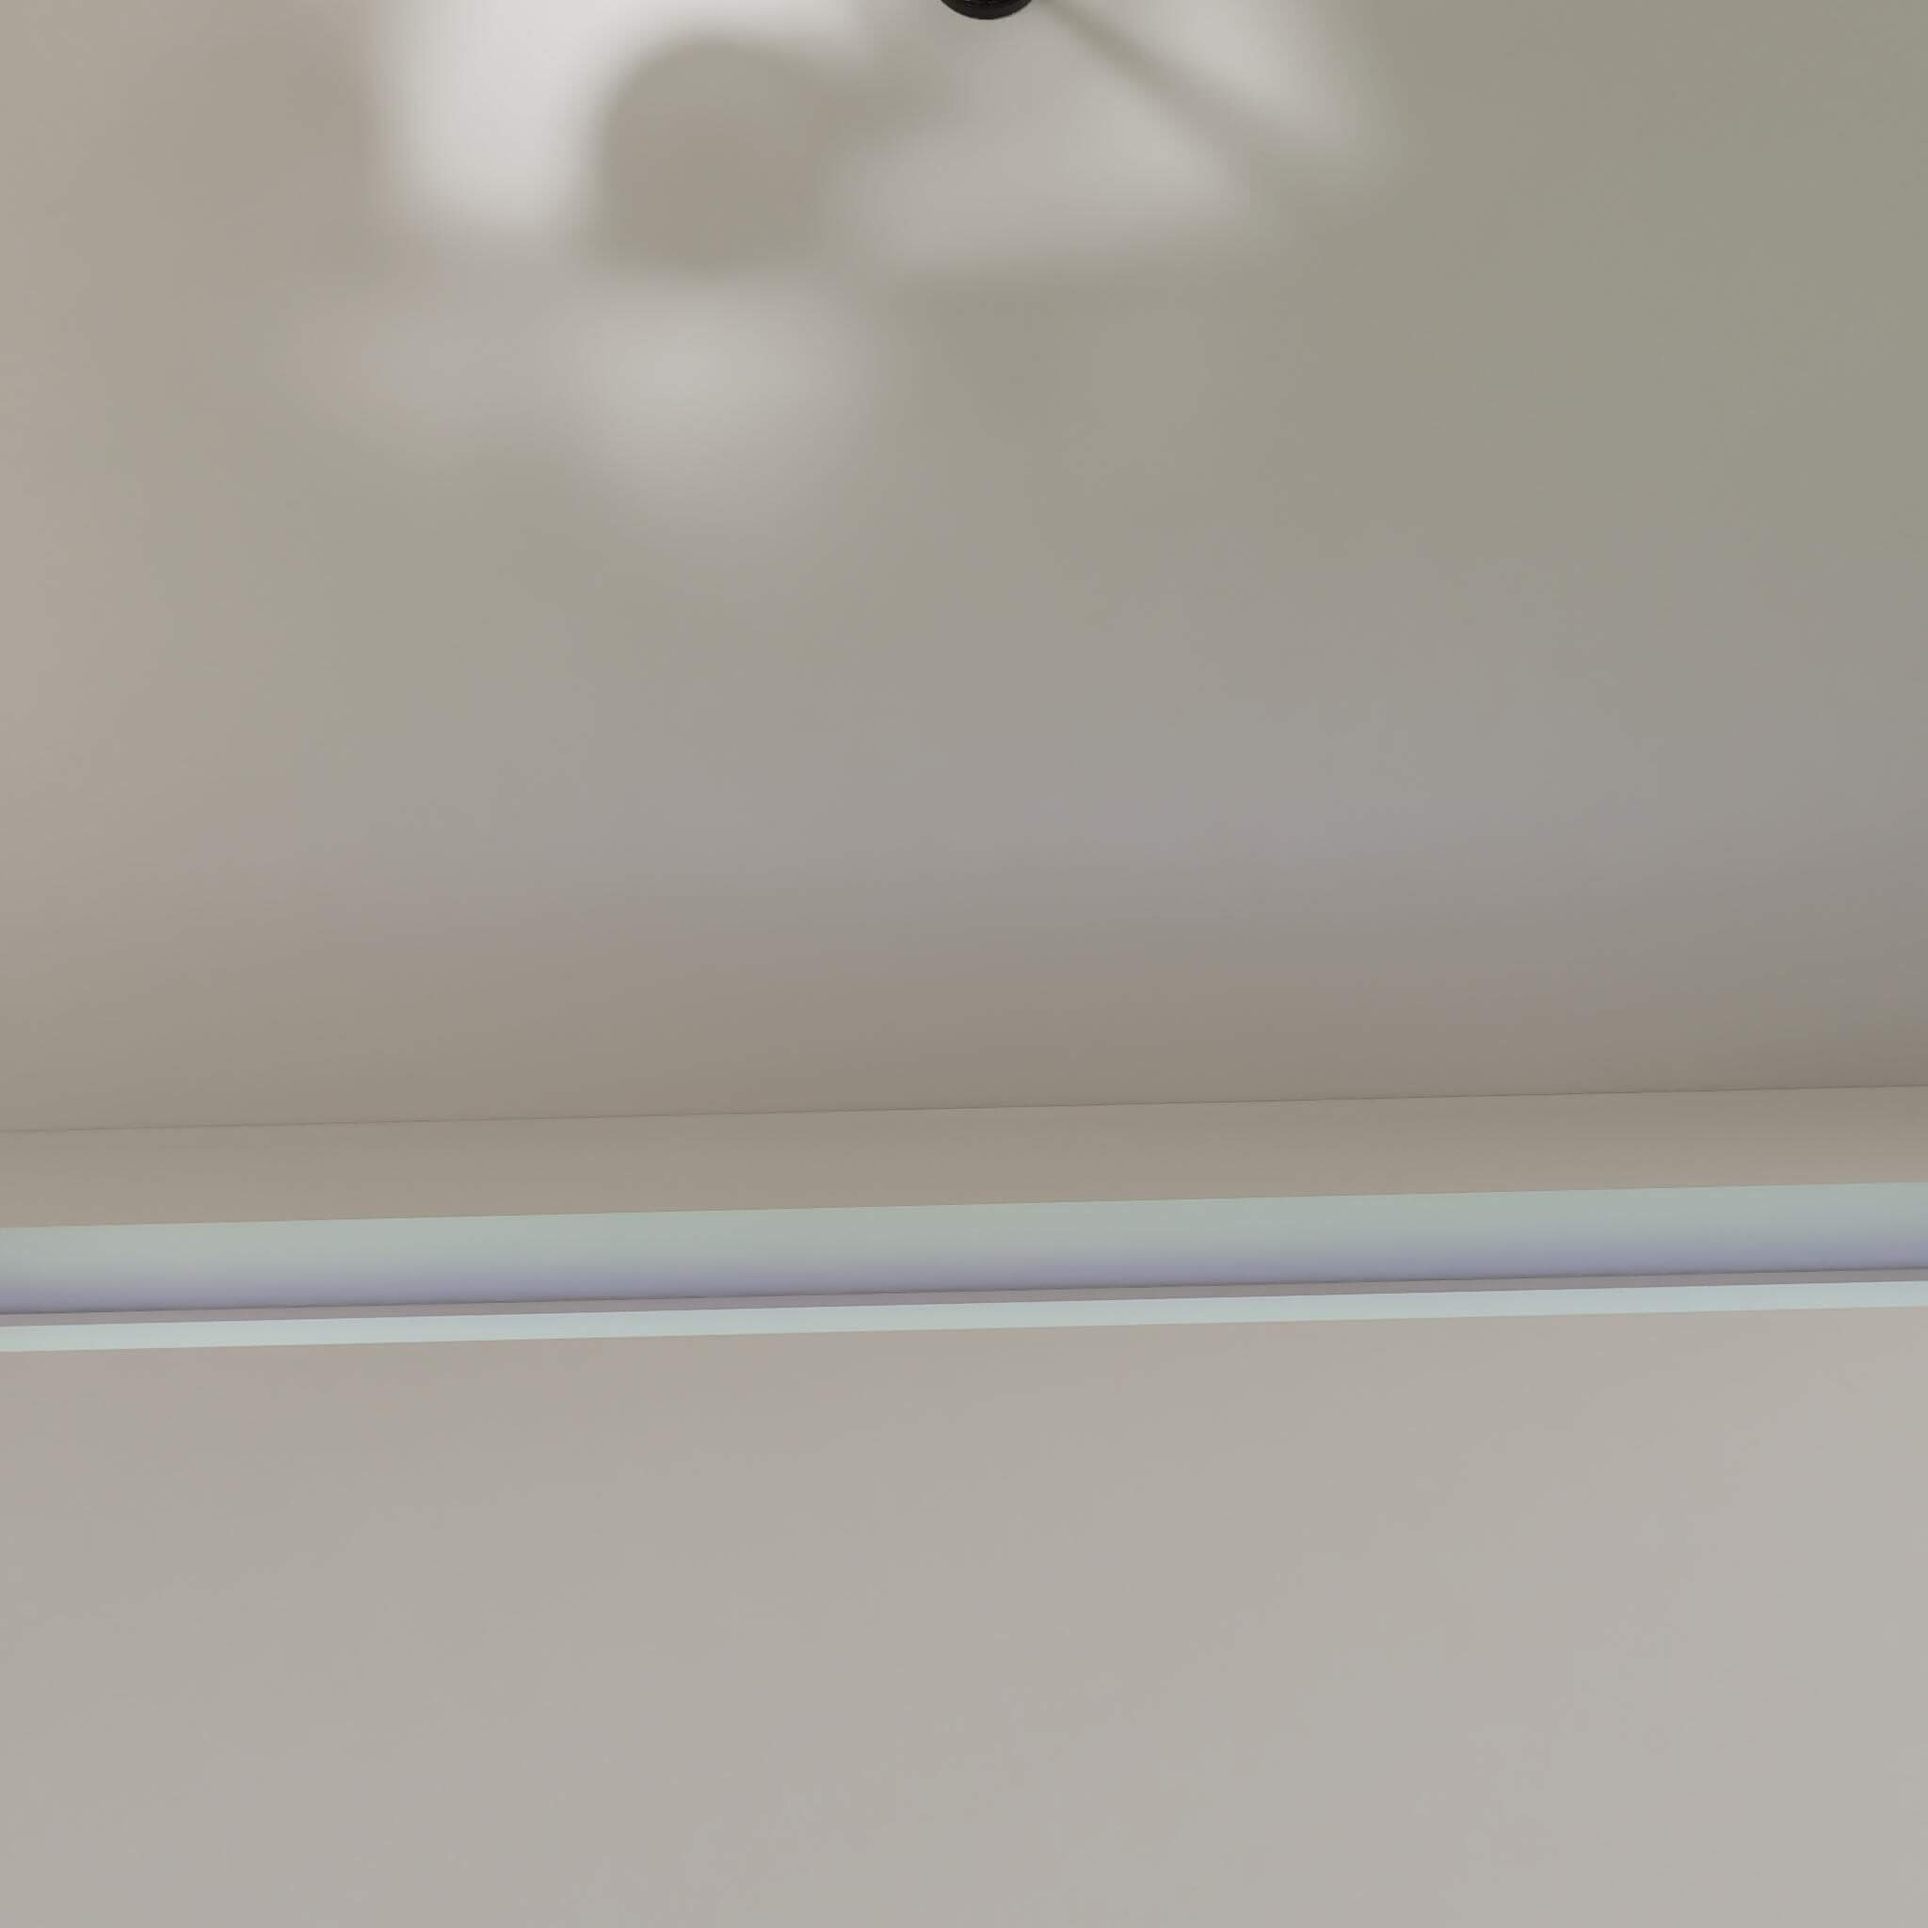
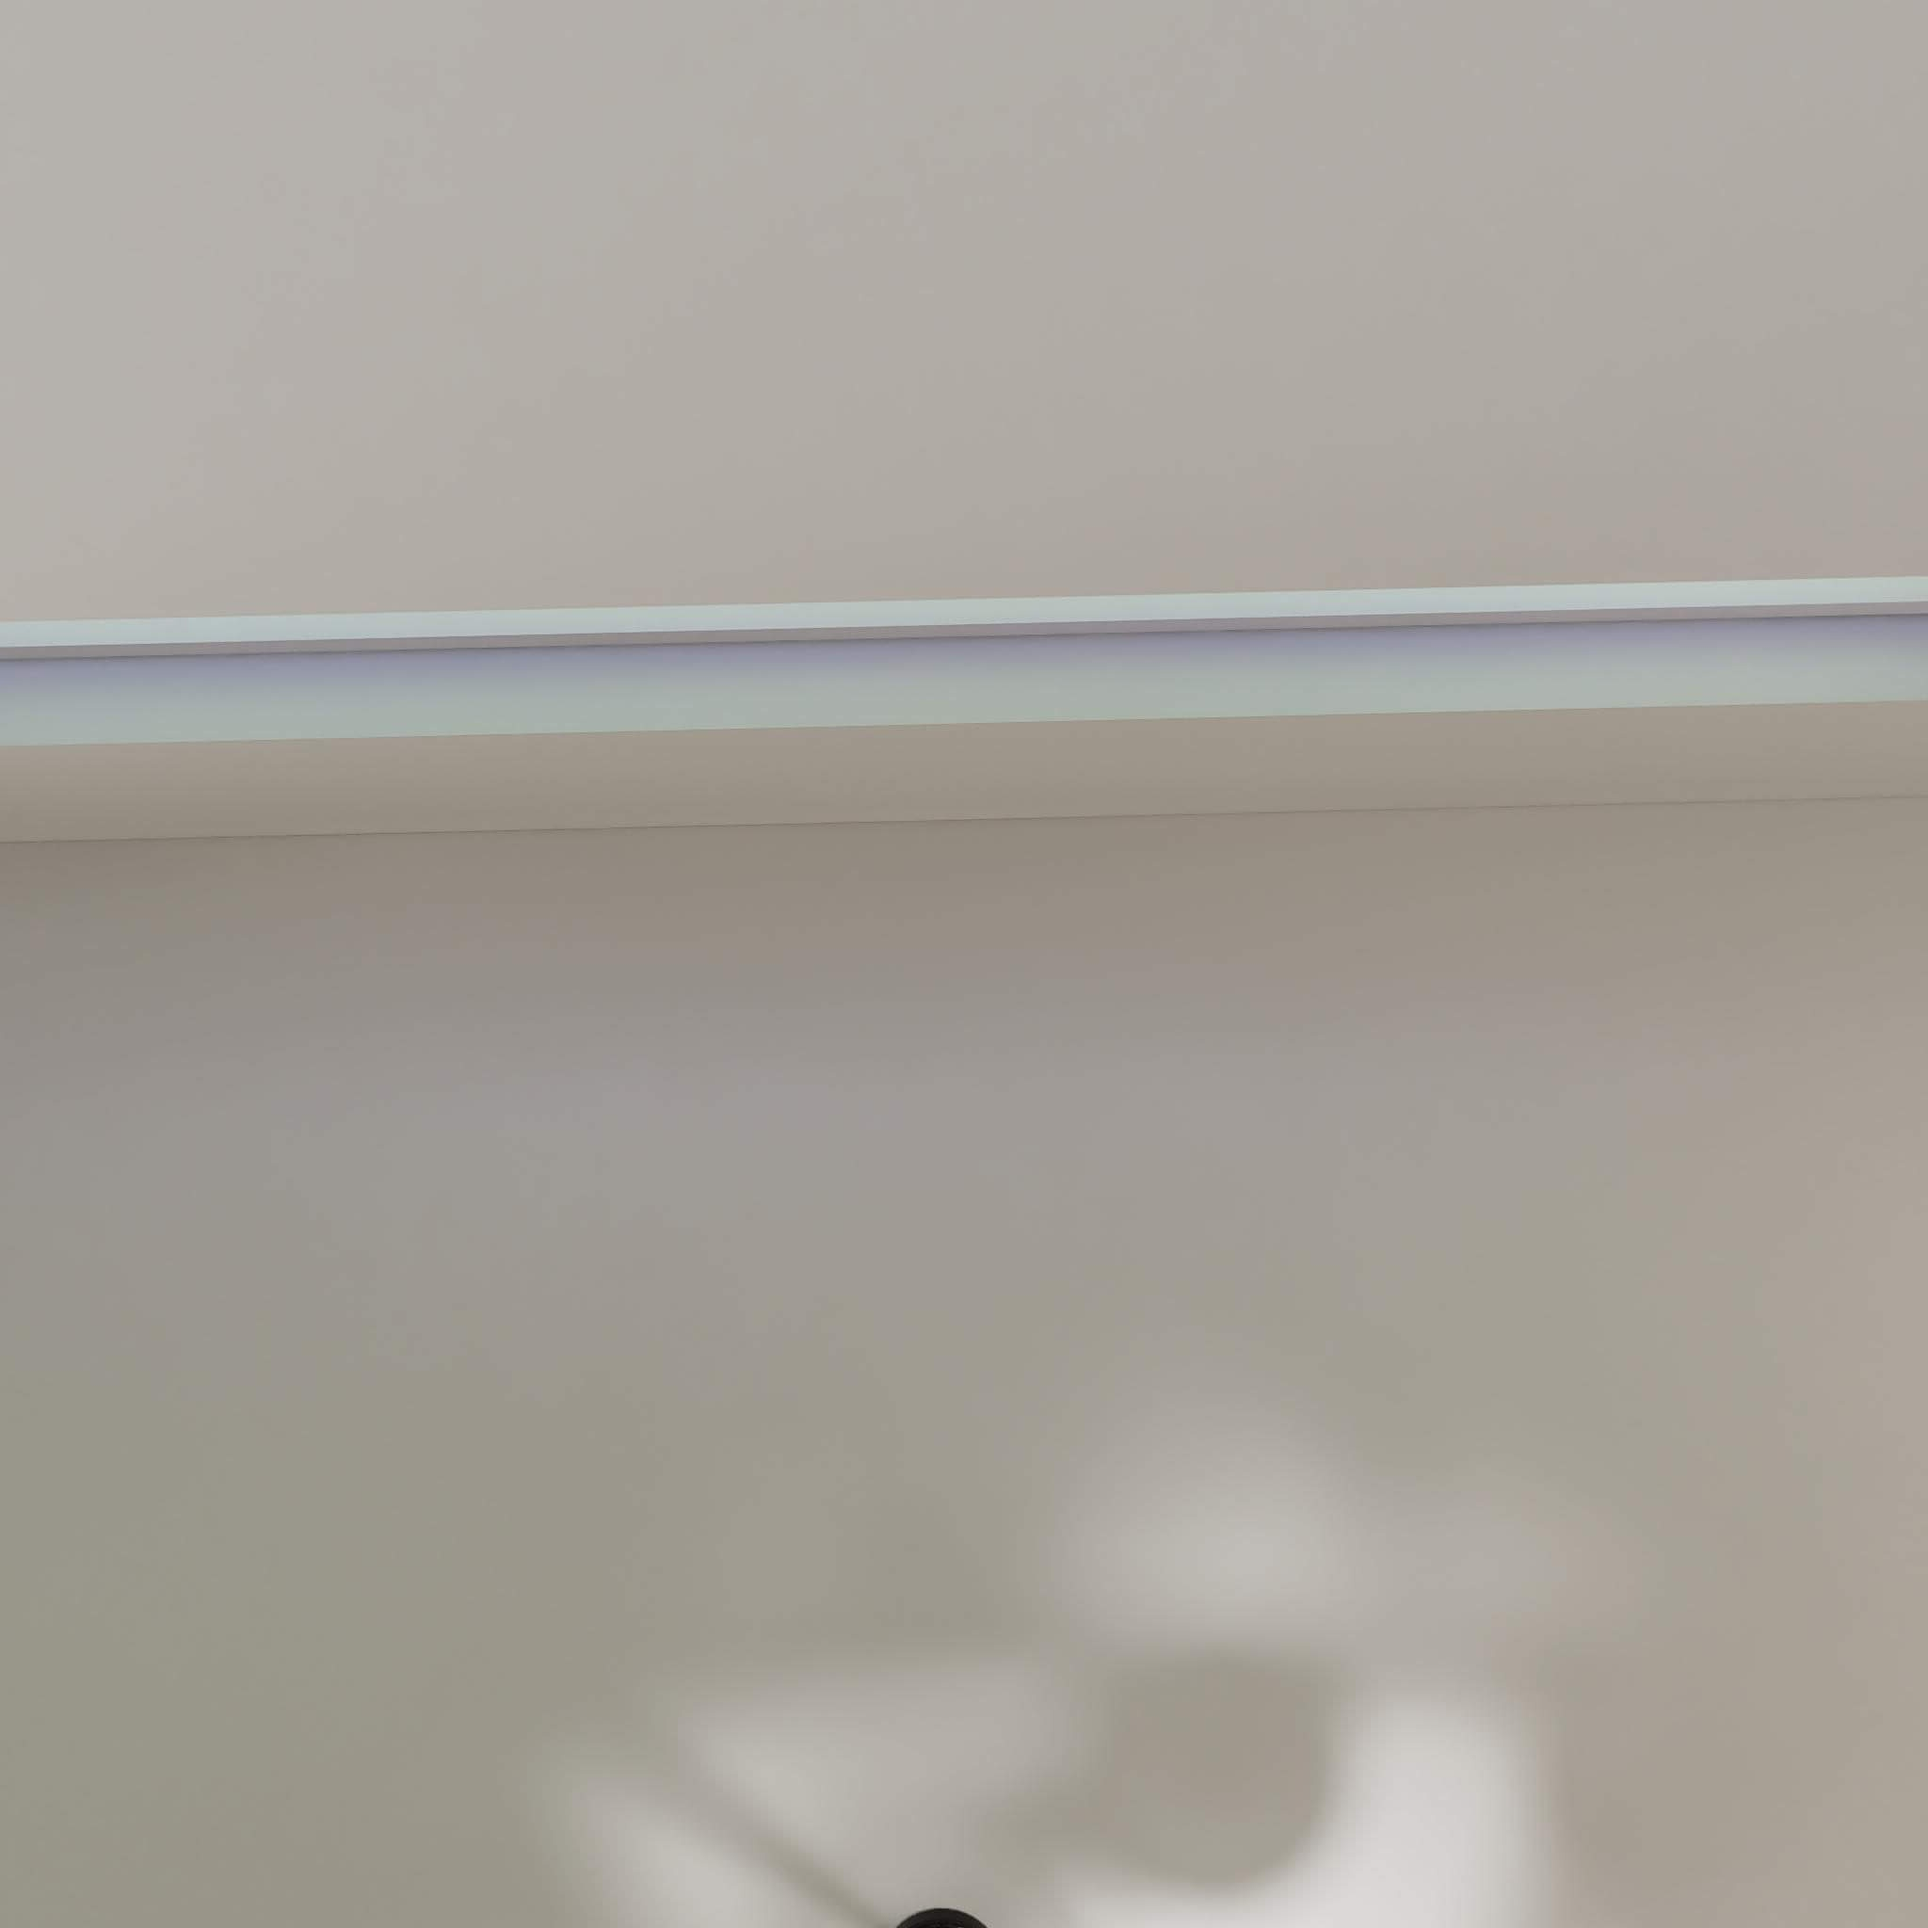
markers for premium fixed

diff --git a/rotate_everest_ud.py b/rotate_everest_ud.py
@@ -1,0 +1,71 @@
+#!/usr/bin/env python3
+"""
+Скрипт для поворота изображений 'u.jpg' (верх) и 'd.jpg' (низ) в каталоге Everest/360.
+Поворачивает изображения на 180 градусов.
+"""
+
+import os
+from PIL import Image
+import glob
+
+def rotate_image(image_path, degrees=180):
+    """
+    Поворачивает изображение на указанное количество градусов и сохраняет его.
+    
+    Args:
+        image_path: Путь к изображению
+        degrees: Градусы поворота (по умолчанию 180)
+    """
+    try:
+        # Открываем изображение
+        img = Image.open(image_path)
+        
+        # Поворачиваем изображение
+        rotated_img = img.rotate(degrees, expand=False)
+        
+        # Сохраняем изображение, перезаписывая оригинал
+        rotated_img.save(image_path, quality=95, optimize=True)
+        
+        print(f"Успешно повернуто: {image_path}")
+        
+    except Exception as e:
+        print(f"Ошибка при повороте {image_path}: {str(e)}")
+
+def process_everest_360_folders():
+    """
+    Обрабатывает все подпапки в каталоге Everest/360 и поворачивает файлы u.jpg и d.jpg
+    """
+    # Базовый путь к каталогу Everest/360
+    base_path = "public/assets/premium/Everest/360"
+    
+    # Получаем список всех подпапок
+    subfolders = [f for f in os.listdir(base_path) if os.path.isdir(os.path.join(base_path, f))]
+    
+    print(f"Найдено {len(subfolders)} подпапок в каталоге Everest/360")
+    
+    # Обрабатываем каждую подпапку
+    for folder in subfolders:
+        folder_path = os.path.join(base_path, folder)
+        
+        # Пути к файлам u.jpg и d.jpg
+        u_file = os.path.join(folder_path, "u.jpg")
+        d_file = os.path.join(folder_path, "d.jpg")
+        
+        # Проверяем и поворачиваем файл u.jpg
+        if os.path.exists(u_file):
+            print(f"Поворачиваем {u_file}...")
+            rotate_image(u_file)
+        else:
+            print(f"Файл {u_file} не найден")
+        
+        # Проверяем и поворачиваем файл d.jpg
+        if os.path.exists(d_file):
+            print(f"Поворачиваем {d_file}...")
+            rotate_image(d_file)
+        else:
+            print(f"Файл {d_file} не найден")
+
+if __name__ == "__main__":
+    print("Начинаем поворот изображений u.jpg и d.jpg в каталоге Everest/360...")
+    process_everest_360_folders()
+    print("Обработка завершена!")
